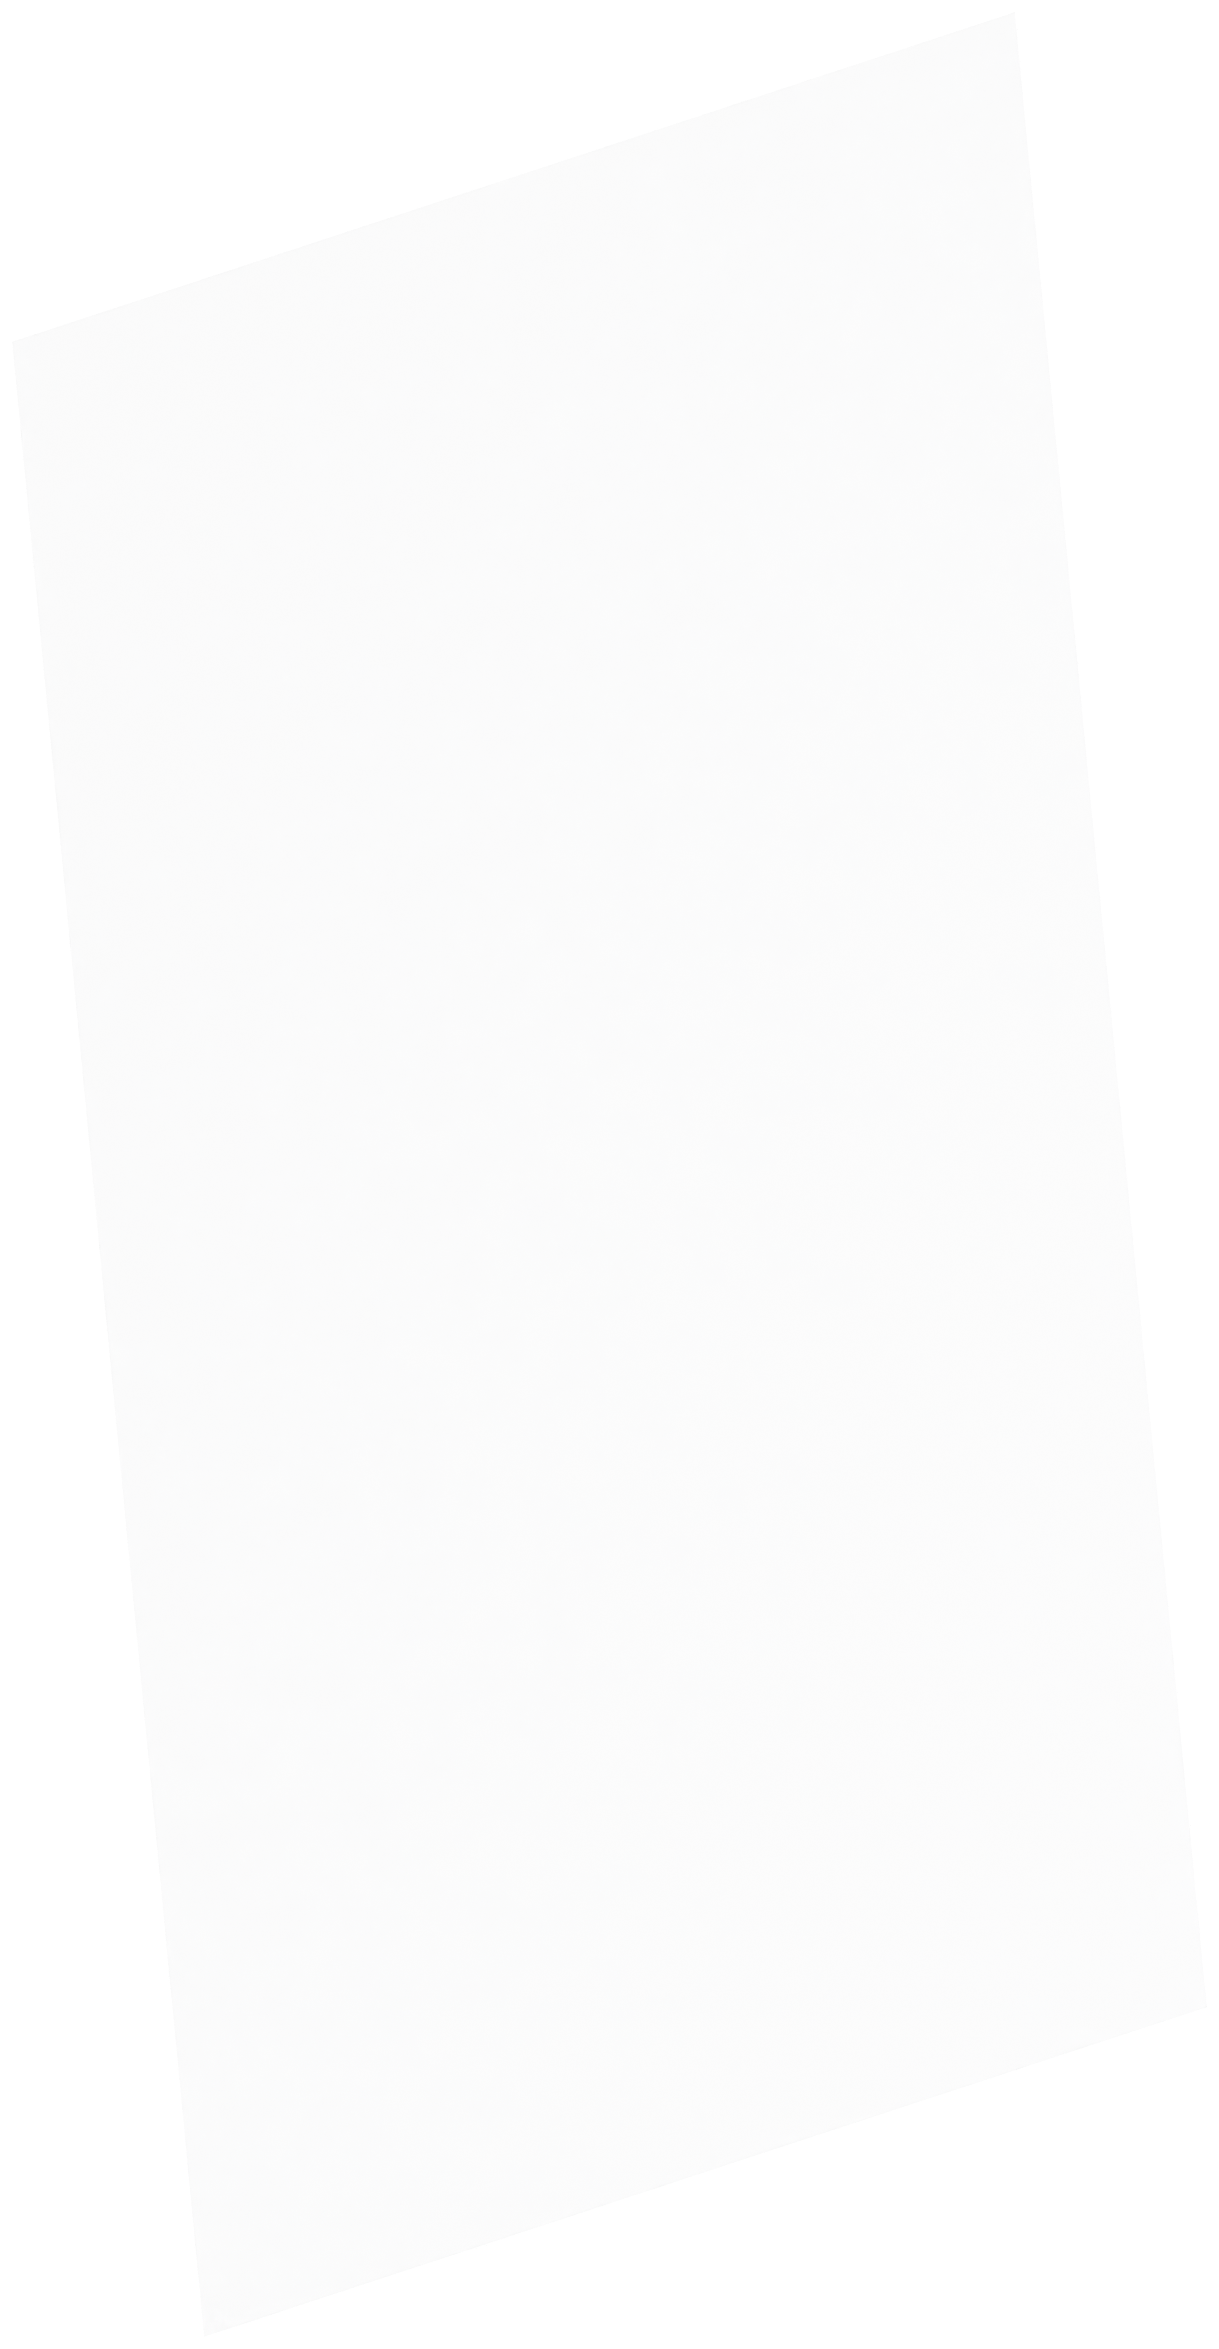
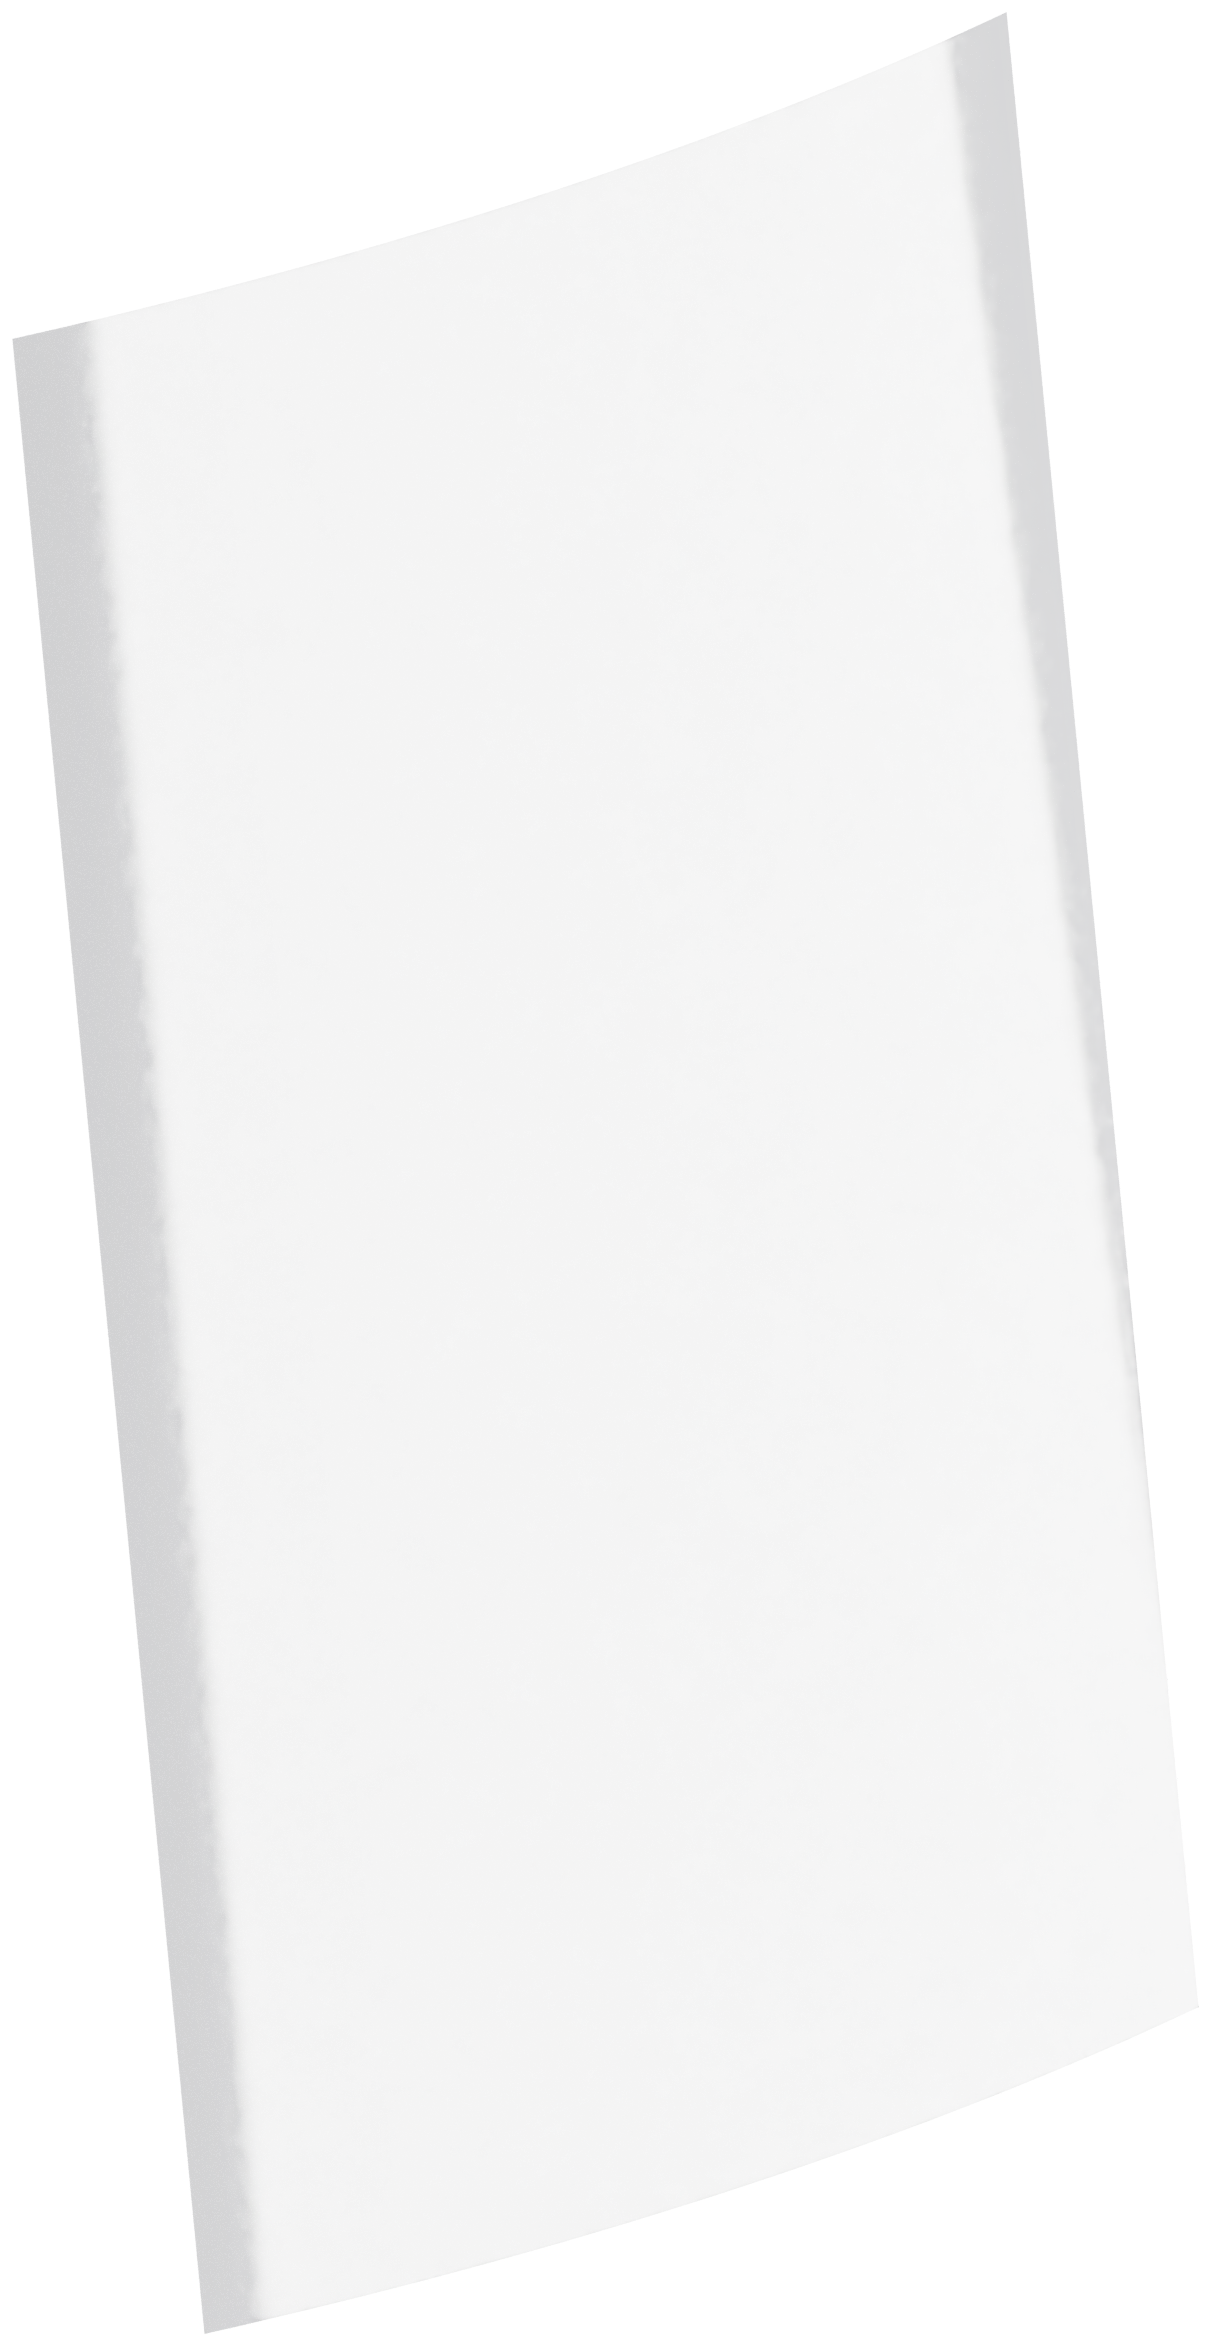
Autolagring 13.11 16:47: 6 filer

Changed region(s): [[0.0, 0.1245, 0.2139, 0.9957], [0.7638, 0.0, 0.9472, 0.5601]]

diff --git a/modell/byggjesett/rendre_blender.py b/modell/byggjesett/rendre_blender.py
@@ -274,16 +274,15 @@ def rendre(namn, sc):
     if not bank:
         kant.y = min(kant.y, y_bak - 0.03)                              # framfor bakveggen, elles skuggar veggen lyset
     _lys('kant', kant, mal, 1.0 * d * 2, 85 * (d / 0.3) ** 2, (1.0, 0.93, 0.85))
-    if bank:
-        for o in sc['objekt']:
-            if o.get('del_') == 'P08':
-                # Refleks: ei stor lysflate der arket speglar kameraretninga, så filmen får ein blank glans som skiftar over bøyen
-                n = (Matrix(o['M']).to_3x3() @ Vector((0, 0, 1))).normalized()
-                dv = -retn
-                if dv.dot(n) > 0:
-                    n = -n
-                r = dv - 2 * dv.dot(n) * n
-                _kort('refleks', mal + r * 1.2, mal, 1.2, 40.0)
+    for o in sc['objekt']:
+        if o.get('del_') == 'P08':
+            # Refleks: ei stor lysflate der arket speglar kameraretninga, så filmen får ein blank glans som skiftar over bøyen
+            n = (Matrix(o['M']).to_3x3() @ Vector((0, 0, 1))).normalized()
+            dv = -retn
+            if dv.dot(n) > 0:
+                n = -n
+            r = dv - 2 * dv.dot(n) * n
+            _kort('refleks', mal + r * 1.2, mal, 1.2, 70.0)
     if sc.get('baklys'):                                                # lys gjennom arket bakfrå
         bak = Vector((mal.x, min(hi.y + 0.25, y_bak - 0.03), mal.z))
         _lys('baklys', bak, mal, 0.9 * d * 2, 30 * (d / 0.3) ** 2, (1.0, 0.95, 0.88))
